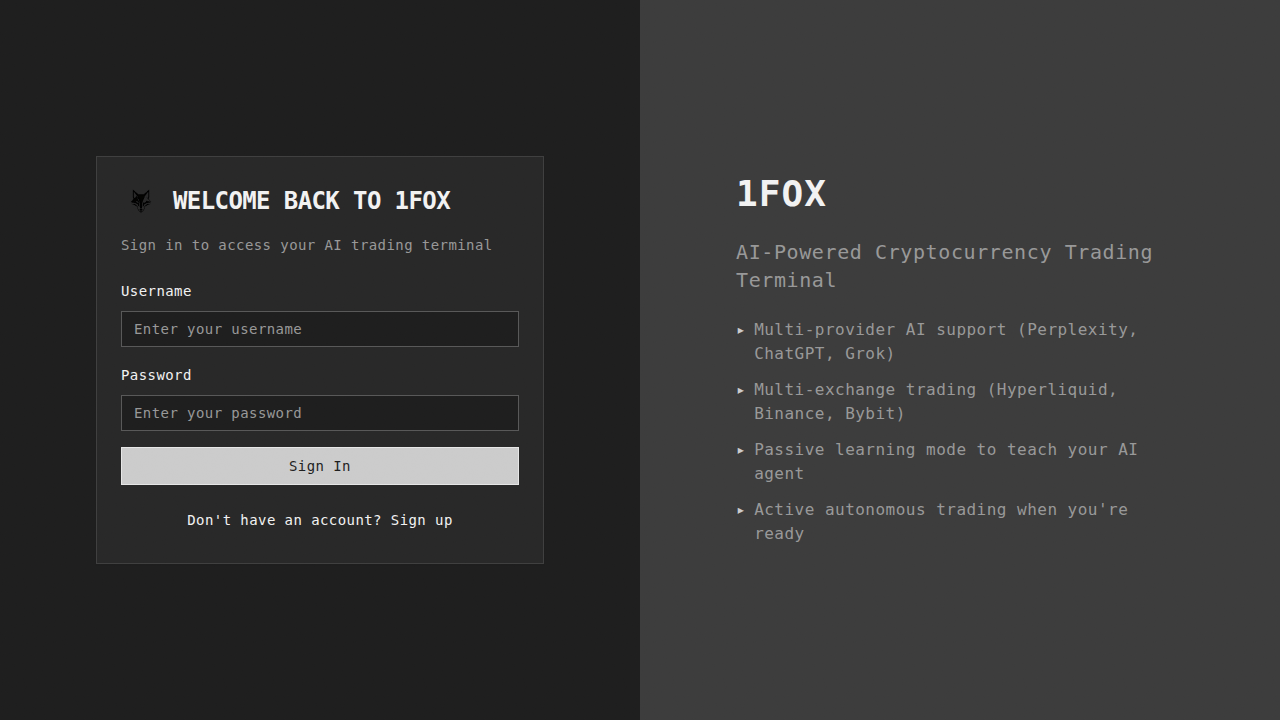
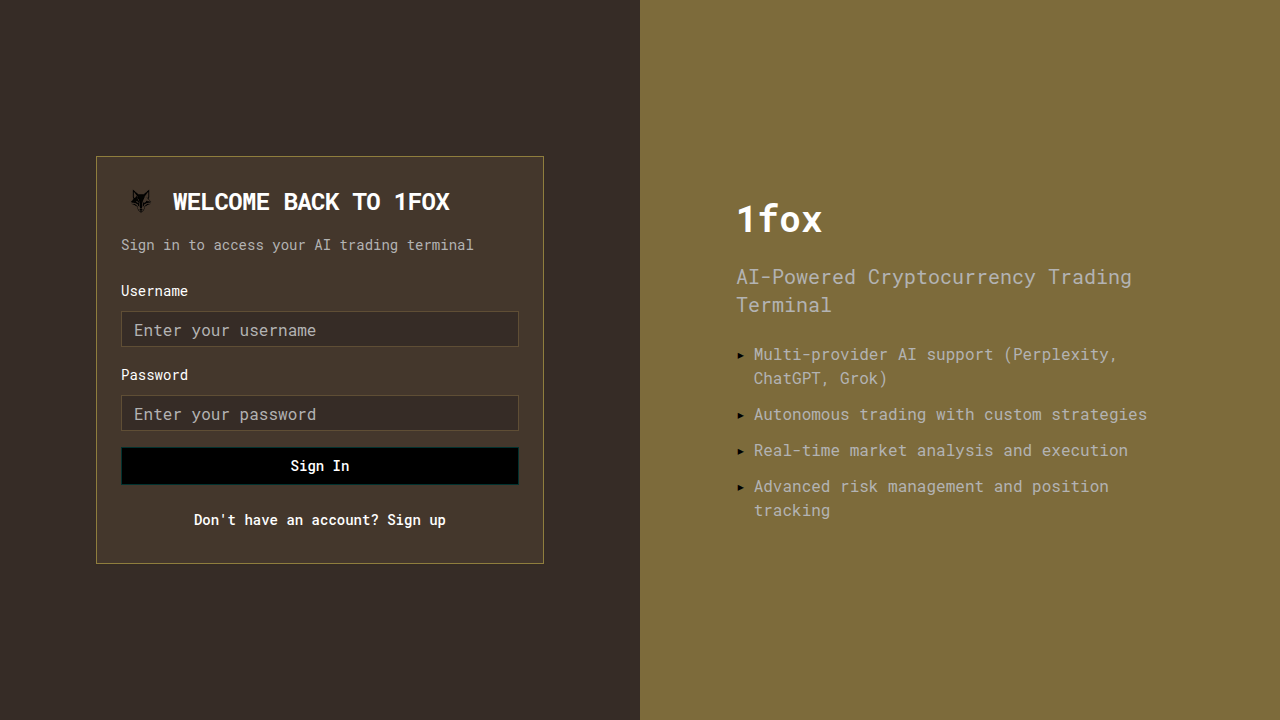
Update color scheme for a darker, modern appearance
Adjust CSS variables in client/src/index.css to implement a refined dark theme with updated background, border, card, and accent colors.

Replit-Commit-Author: Agent
Replit-Commit-Session-Id: 99d58e5b-930e-4b00-9969-433d3ccb22a2
Replit-Commit-Checkpoint-Type: intermediate_checkpoint
Replit-Commit-Screenshot-Url: https://storage.googleapis.com/screenshot-production-us-central1/7e36e1e8-422c-4cd9-b8a9-2e5bcc194e52/99d58e5b-930e-4b00-9969-433d3ccb22a2/XP4HE62

diff --git a/client/src/index.css b/client/src/index.css
@@ -15,75 +15,75 @@
   --elevate-2: rgba(255, 163, 82, .15);
 
   /* Orderly-inspired dark theme colors */
-  --background: 24 18 18%;
+  --background: 18 33% 8%;
 
   --foreground: 0 0% 100%;
 
-  --border: 48 40 40%;
+  --border: 30 9% 20%;
 
-  --card: 28 22 22%;
+  --card: 22 33% 10%;
 
   --card-foreground: 0 0% 100%;
 
-  --card-border: 48 40 40%;
+  --card-border: 30 9% 20%;
 
-  --sidebar: 24 18 18%;
+  --sidebar: 18 33% 8%;
 
   --sidebar-foreground: 0 0% 100%;
 
-  --sidebar-border: 48 40 40%;
+  --sidebar-border: 30 9% 20%;
 
-  --sidebar-primary: 176 96 0%;
+  --sidebar-primary: 33 100% 35%;
 
   --sidebar-primary-foreground: 0 0% 100%;
 
-  --sidebar-accent: 39 33 33%;
+  --sidebar-accent: 22 8% 14%;
 
   --sidebar-accent-foreground: 0 0% 100%;
 
-  --sidebar-ring: 176 96 0%;
+  --sidebar-ring: 33 100% 35%;
 
-  --popover: 28 22 22%;
+  --popover: 22 33% 10%;
 
   --popover-foreground: 0 0% 100%;
 
-  --popover-border: 48 40 40%;
+  --popover-border: 30 9% 20%;
 
-  --primary: 176 96 0%;
+  --primary: 33 100% 35%;
 
   --primary-foreground: 0 0% 100%;
 
-  --secondary: 56 48 48%;
+  --secondary: 30 8% 20%;
 
   --secondary-foreground: 0 0% 100%;
 
-  --muted: 44 36 36%;
+  --muted: 22 10% 16%;
 
   --muted-foreground: 0 0% 70%;
 
-  --accent: 218 137 84%;
+  --accent: 29 45% 59%;
 
   --accent-foreground: 0 0% 100%;
 
-  --destructive: 245 78 46%;
+  --destructive: 9 84% 57%;
 
   --destructive-foreground: 0 0% 100%;
 
-  --long: 255 193 7%;
+  --long: 45 100% 51%;
   
   --long-foreground: 0 0% 0%;
   
-  --short: 245 78 46%;
+  --short: 9 84% 57%;
   
   --short-foreground: 0 0% 100%;
 
-  --input: 35 29 29%;
-  --ring: 176 96 0%;
-  --chart-1: 176 96 0%;
-  --chart-2: 255 193 7%;
-  --chart-3: 245 78 46%;
-  --chart-4: 217 163 82%;
-  --chart-5: 207 87 59%;
+  --input: 24 9% 13%;
+  --ring: 33 100% 35%;
+  --chart-1: 33 100% 35%;
+  --chart-2: 45 100% 51%;
+  --chart-3: 9 84% 57%;
+  --chart-4: 33 62% 58%;
+  --chart-5: 18 57% 52%;
 
   --font-sans: 'Roboto', sans-serif;
   --font-serif: 'Roboto', sans-serif;
@@ -142,75 +142,75 @@
   --elevate-2: rgba(255, 163, 82, .15);
 
   /* Same as root for dark-first design */
-  --background: 24 18 18%;
+  --background: 18 33% 8%;
 
   --foreground: 0 0% 100%;
 
-  --border: 48 40 40%;
+  --border: 30 9% 20%;
 
-  --card: 28 22 22%;
+  --card: 22 33% 10%;
 
   --card-foreground: 0 0% 100%;
 
-  --card-border: 48 40 40%;
+  --card-border: 30 9% 20%;
 
-  --sidebar: 24 18 18%;
+  --sidebar: 18 33% 8%;
 
   --sidebar-foreground: 0 0% 100%;
 
-  --sidebar-border: 48 40 40%;
+  --sidebar-border: 30 9% 20%;
 
-  --sidebar-primary: 176 96 0%;
+  --sidebar-primary: 33 100% 35%;
 
   --sidebar-primary-foreground: 0 0% 100%;
 
-  --sidebar-accent: 39 33 33%;
+  --sidebar-accent: 22 8% 14%;
 
   --sidebar-accent-foreground: 0 0% 100%;
 
-  --sidebar-ring: 176 96 0%;
+  --sidebar-ring: 33 100% 35%;
 
-  --popover: 28 22 22%;
+  --popover: 22 33% 10%;
 
   --popover-foreground: 0 0% 100%;
 
-  --popover-border: 48 40 40%;
+  --popover-border: 30 9% 20%;
 
-  --primary: 176 96 0%;
+  --primary: 33 100% 35%;
 
   --primary-foreground: 0 0% 100%;
 
-  --secondary: 56 48 48%;
+  --secondary: 30 8% 20%;
 
   --secondary-foreground: 0 0% 100%;
 
-  --muted: 44 36 36%;
+  --muted: 22 10% 16%;
 
   --muted-foreground: 0 0% 70%;
 
-  --accent: 218 137 84%;
+  --accent: 29 45% 59%;
 
   --accent-foreground: 0 0% 100%;
 
-  --destructive: 245 78 46%;
+  --destructive: 9 84% 57%;
 
   --destructive-foreground: 0 0% 100%;
 
-  --long: 255 193 7%;
+  --long: 45 100% 51%;
   
   --long-foreground: 0 0% 0%;
   
-  --short: 245 78 46%;
+  --short: 9 84% 57%;
   
   --short-foreground: 0 0% 100%;
 
-  --input: 35 29 29%;
-  --ring: 176 96 0%;
-  --chart-1: 176 96 0%;
-  --chart-2: 255 193 7%;
-  --chart-3: 245 78 46%;
-  --chart-4: 217 163 82%;
-  --chart-5: 207 87 59%;
+  --input: 24 9% 13%;
+  --ring: 33 100% 35%;
+  --chart-1: 33 100% 35%;
+  --chart-2: 45 100% 51%;
+  --chart-3: 9 84% 57%;
+  --chart-4: 33 62% 58%;
+  --chart-5: 18 57% 52%;
 
   /* Fallback for older browsers */
   --sidebar-primary-border: hsl(var(--sidebar-primary));
